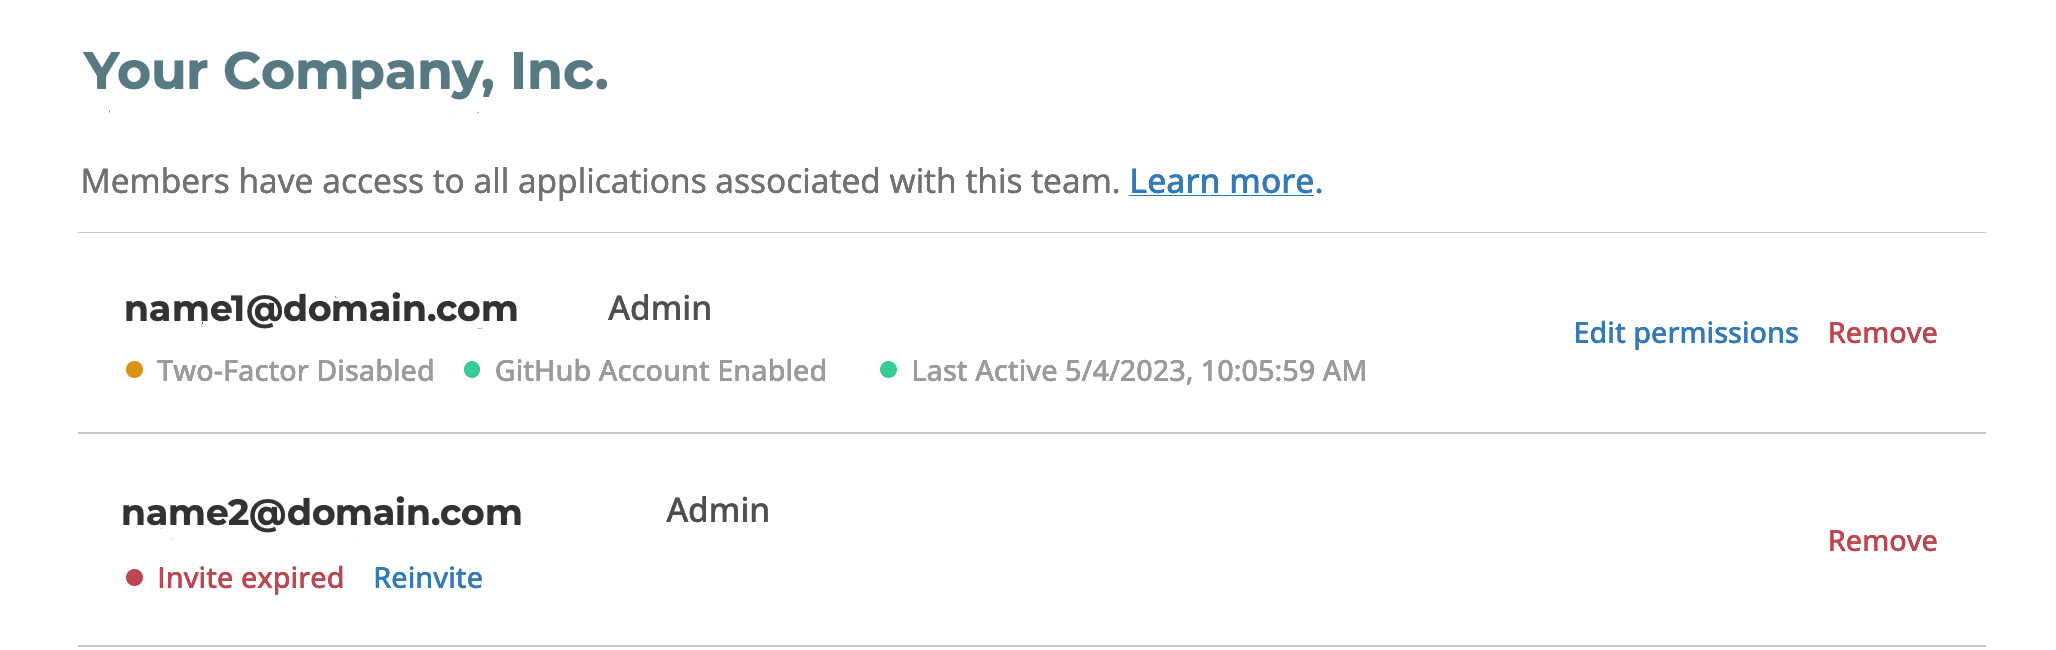
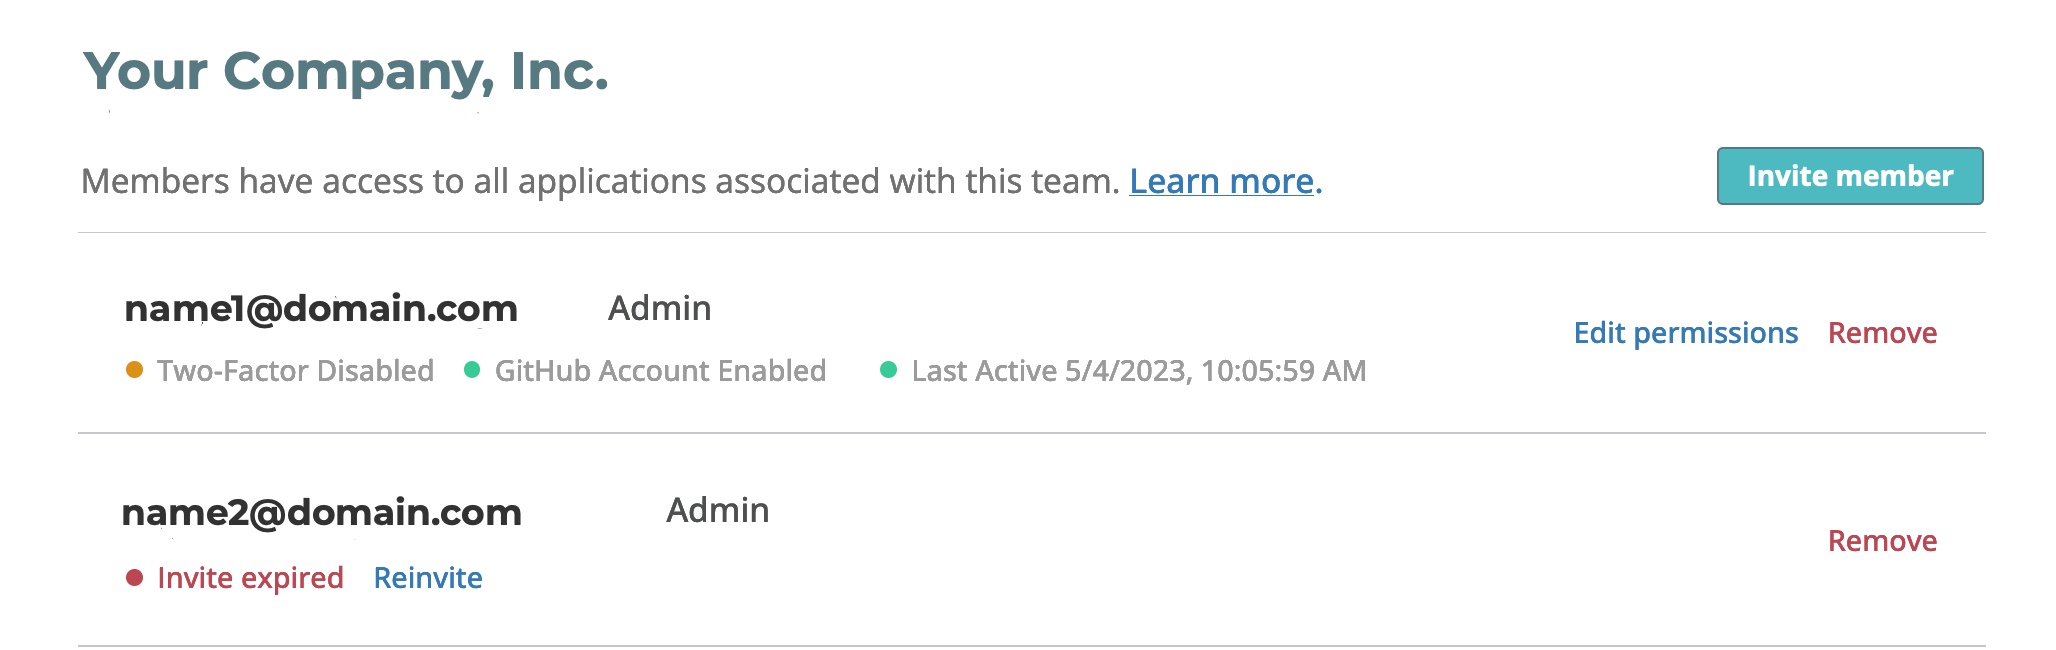
Edits

Changed region(s): [[0.8093, 0.2154, 0.965, 0.3385]]

diff --git a/docs/intro-main.md b/docs/intro-main.md
@@ -16,7 +16,22 @@ Replicated provides the following features on all pricing plans for managing, mo
 - Get telemetry and key insights for the instances of your application running in customer environments
 - Management and configuration tools, which include the Replicated vendor portal, replicated CLI, and the vendor API.
 
-Additional features are available for Replicated KOTS and Replicated kURL. For more information, see [KOTS and kURL](kots-and-kurl).
+Additional features are available for Replicated KOTS and Replicated kURL. For more information about KOTS and kURL, see [KOTS and kURL](#kots-and-kurl).
+
+For more information about these key features, see [Key Features](#key-features).
+
+## Pricing Plans
+
+Replicated offers multiple pricing plans to provide flexibility in supporting your application needs.
+
+- **Builders Plan:** This option supports Helm chart applications and Helm CLI installations. This plan lets you pick and choose which features you want to use using the Replicated SDK. For example, you can use just the compatibility matrix.
+
+   Alternatively, you might want to use just the vendor portal to manage your releases without using any other feature. In this case, you would not need to add the SDK subchart to your Helm charts.
+
+- **Premium Plan:** This option includes the KOTS entitlement, which provides KOTS and kURL installers. This plan also provides an admin console for you end customers, Replicated support, and lets you deploy applications using Helm charts, Kubernetes standard manifests, or Kubernetes Operators.
+
+    You can also support multiple deployment types with a single release, such as KOTS, kURL, and Helm CLI installations using the SDK.
+
 
 ## Key Features
 
@@ -56,7 +71,7 @@ Using the compatibility matrix can help reduce the costs and effort to test, inc
 
 ### Preflight Checks and Support Bundles
 
-Use preflight checks to improve installation success and support bundles to help troubleshoot the cluster and application.
+Use preflight checks to improve installation success and use support bundles to help troubleshoot the cluster and application.
 
 Preflight checks let you define requirements and dependencies for the cluster where your application is installed. Preflight checks provide clear, immediate feedback to your customer about any missing requirements or incompatibilities in the cluster before they install and upgrade your application.
 
@@ -68,9 +83,9 @@ Get telemetry and key insights for the instances of your application running in 
 
 Instance data helps the update service compile a list of new versions that are available to an instance for upgrade. Adoption metrics helps you track how frequently customers are upgrading and which versions they are using. If you see that your customers are on the latest versions, you can reduce the number of older versions that you support and maintain.
 
-For air gap instances, which are supported with KOTS entitlements, the telemetry component integrates closely with the support bundle feature to include valuable telemetry and usage data in support bundles to help with troubleshooting.
-
 Set up notifications to get alerted for the events and metrics to help ensure that important instance issues or performance trends are not missed. For example, you can be notified of a degraded status and you can contact your customer about fixing it before downtime occurs.
+
+For air gap instances, which are supported with KOTS entitlements, the telemetry component integrates closely with the support bundle feature to include valuable telemetry and usage data in support bundles to help with troubleshooting.
 
 ## Management and Configuration Tools
 
@@ -80,13 +95,25 @@ This section describes the management tools that you use to configure and manage
 
 The Replicated vendor portal is the web-based user interface that you can use to package and manage applications, and manage teams.
 
-![Create an Application in the vendor portal](/images/guides/kots/create-application.png)
+For example, team management options let you invite members, manage their permissions and access to the collab repository, configure RBAC for a team, choose from multiple authentication types, use two-factor authentication, set password policies, and configure a Slack webhook to enable Slack notifications about customer instance status changes. 
 
-You configure your application to use Replicated and services using the built-in YAML editor and linter (in the Help pane).
+The following shows an example of the **Team Members** page that shows the list of members, including one with an expired invitation, and current permissions:
 
-![YAML editor in the vendor portal](/images/yaml-editor.png)
+<img src="/images/teams-view.png" alt="View team members list in the vendor portal" width="700"/>
+
+[View a larger image](/images/teams-view.png)
+
+You can view customer reporting data and see adoption graphs to gain insights about performance, health, and usage. 
+
+The following shows an example of the **Reporting** page for a customer that has two active application instances:
+
+![Customer reporting page showing two active instances](/images/customer-reporting-page.png)
+
+[View a larger version of this image](/images/customer-reporting-page.png)
 
 You can also manage other artifacts, such as customer license files, image registries, and release channels.
+
+The following shows an example of the **Channels** page with a KOTS entitlement:
 
 ![Channels](/images/channels.png)
 
@@ -100,25 +127,27 @@ The Vendor API is the API for the vendor portal. This API can be used to complet
 
 ## Installation Options
 
-When you use the Replicated platform, you can install your application using the Helm CLI, KOTS or kURL, or use a proprietary installer.
+When you use the Replicated platform, you can install your application using the Helm CLI, KOTS, kURL, or use a proprietary installer.
 
 ### Helm
 
-Uses the Helm CLI to install Helm charts. You can include the SDK as a dependency of your Helm chart if you want to integrate some or all of the Replicated features. For example, you might want to relay performance, usage, and health data from your proprietary customer user interface to the vendor portal and set up notifications for events. For more information about the SDK, see [About the Replicated SDK (Beta)](replicated-sdk-overview).
+Customers can use the Helm CLI to install Helm charts. You can include the SDK as a dependency of your Helm chart if you want to integrate some or all of the Replicated features. For example, you might want to relay performance, usage, and health data from your proprietary customer user interface to the vendor portal and set up notifications for events. For more information about the SDK, see [About the Replicated SDK (Beta)](replicated-sdk-overview).
 
 ### KOTS and kURL
 
 KOTS lets you package and update applications using Helm charts, Kubernetes manifests, or Kubernetes Operators. Applications are then securely deployed in customer environments using the KOTS installer. 
 
-For customers that do not have an existing cluster, you can include a kURL installer to provision an embedded cluster, and then KOTS installs the application.  
+For customers that do not have an existing cluster, you can include a kURL installer to provision an embedded cluster, and then KOTS installs the application.
+
+KOTS and kURL support installing in air gapped environments.
 
 KOTS also provides an admin console that lets your customers manage your application. You can customize the admin console. For example, you can customize the Config screen to allow customers to specify inputs related to unique options that your application provides. You can also include your own branding on the admin console, configure status informers, and add custom graphs.
 
-For more information, see [About KOTS and kURL](intro-replicated).
+For more information, see [About KOTS and kURL](intro-replicated) in the KOTS documentation.
 
 ### Helm, KOTS, and kURL
 
-You can create a single release that supports using a Helm installation, including the SDK, along side of the KOTS and kURL installers. This lets you create one release to support multiple types of customer environments so that your application runs consistently in every environment. For example, you might have customers that only want a Helm CLI installation for their existing cluster, and other customers who want a Kubernetes cluster provisioned for them with the application in an air gapped environment.
+You can create a single release that supports using a Helm installation, optionally including the SDK, along side of the KOTS and kURL installers. This lets you create one release to support multiple types of customer environments so that your application runs consistently in every environment. For example, you might have customers that only want a Helm CLI installation for their existing cluster, and other customers who want a Kubernetes cluster provisioned for them with the application in an air gapped environment.
 
 One of the many advantages of using a combined release is that you can include the compatibility matrix and test all of the installations using the same application version.
 
